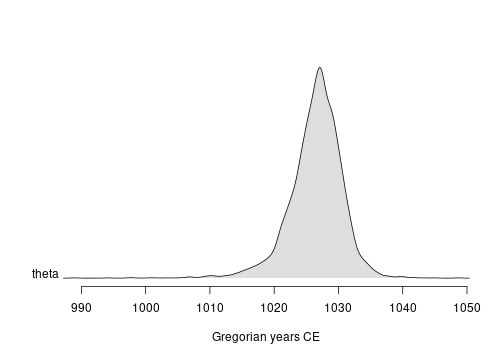
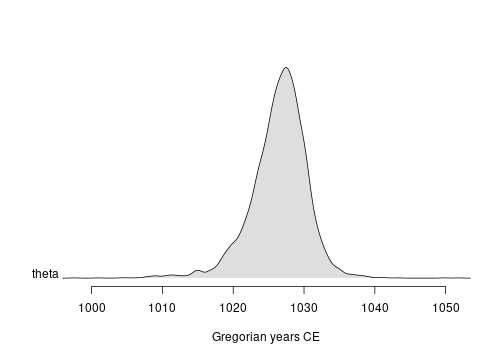
Deploying to gh-pages from @ ArchaeoStat/ArchaeoChron@ed5c441dbd1be5594cdccc8f652b42434cfdaec3 🚀

diff --git a/articles/ArchaeoChron.html b/articles/ArchaeoChron.html
@@ -73,7 +73,7 @@
                         <h4 data-toc-skip class="author">A. Philippe and
 M.-A. Vibet</h4>
             
-            <h4 data-toc-skip class="date">2023-06-27</h4>
+            <h4 data-toc-skip class="date">2023-12-04</h4>
       
       <small class="dont-index">Source: <a href="https://github.com/ArchaeoStat/ArchaeoChron/blob/HEAD/vignettes/ArchaeoChron.Rmd" class="external-link"><code>vignettes/ArchaeoChron.Rmd</code></a></small>
       <div class="hidden name"><code>ArchaeoChron.Rmd</code></div>
@@ -362,7 +362,7 @@ plot of chunk unnamed-chunk-3
 <code class="sourceCode R"><span></span>
 <span><span class="op">(</span><span class="va">M1</span> <span class="op">&lt;-</span> <span class="fu"><a href="https://ArchaeoStat.github.io/ArchaeoPhases/reference/summary.html" class="external-link">summary</a></span><span class="op">(</span><span class="va">MCMCEvent1</span><span class="op">[</span>, <span class="fl">1</span><span class="op">]</span>, level <span class="op">=</span> <span class="fl">0.95</span><span class="op">)</span><span class="op">)</span></span>
 <span><span class="co">#&gt;        mad mean sd  min   q1 median   q3  max start  end</span></span>
-<span><span class="co">#&gt; theta 1028 1028  3 1022 1027   1028 1029 1036  1025 1032</span></span></code></pre></div>
+<span><span class="co">#&gt; theta 1028 1028  3 1021 1027   1028 1029 1035  1025 1032</span></span></code></pre></div>
 <p>The date (mean posterior distribution) of the sunspot estimated using
 a simple Bayesian model that combines dates, is dates at 1028 years
 after Christ. This date is associated with a 95% confidence interval :
@@ -617,7 +617,7 @@ plot of chunk unnamed-chunk-5
 <code class="sourceCode R"><span></span>
 <span><span class="op">(</span><span class="va">M2</span> <span class="op">&lt;-</span> <span class="fu"><a href="https://ArchaeoStat.github.io/ArchaeoPhases/reference/summary.html" class="external-link">summary</a></span><span class="op">(</span><span class="va">MCMCEvent2</span><span class="op">[</span>, <span class="fl">1</span><span class="op">]</span>, level <span class="op">=</span> <span class="fl">0.95</span><span class="op">)</span><span class="op">)</span></span>
 <span><span class="co">#&gt;        mad mean sd  min   q1 median   q3  max start  end</span></span>
-<span><span class="co">#&gt; theta 1029 1028  3 1021 1027   1028 1029 1035  1025 1032</span></span></code></pre></div>
+<span><span class="co">#&gt; theta 1028 1028  3 1022 1027   1028 1029 1035  1025 1032</span></span></code></pre></div>
 <p>The date (mean posterior distribution) of the sunspot, estimated
 using a simple Bayesian model that combines dates and allows for
 outliers, is dates at 1028 years after Christ. This date is associated
@@ -869,11 +869,11 @@ plot of chunk unnamed-chunk-7
 <code class="sourceCode R"><span></span>
 <span><span class="op">(</span><span class="va">M3</span> <span class="op">&lt;-</span> <span class="fu"><a href="https://ArchaeoStat.github.io/ArchaeoPhases/reference/summary.html" class="external-link">summary</a></span><span class="op">(</span><span class="va">MCMCEvent3</span><span class="op">[</span>, <span class="fl">1</span><span class="op">]</span>, level <span class="op">=</span> <span class="fl">0.95</span><span class="op">)</span><span class="op">)</span></span>
 <span><span class="co">#&gt;        mad mean sd min   q1 median   q3  max start  end</span></span>
-<span><span class="co">#&gt; theta 1027 1026  5 989 1024   1027 1029 1049  1018 1035</span></span></code></pre></div>
+<span><span class="co">#&gt; theta 1027 1026  5 998 1024   1027 1029 1052  1018 1033</span></span></code></pre></div>
 <p>The date (mean posterior distribution) of the sunspot, estimated
 using a simple Bayesian model that combines dates and allows for random
 effects, is dates at 1026 years after Christ. This date is associated
-with a 95% confidence interval : [1018, 1035].</p>
+with a 95% confidence interval : [1018, 1033].</p>
 </div>
 <div class="section level3">
 <h3 id="event-model-bayesian-model-for-combining-gaussian-dates-with-individual-random-effects">Event Model : Bayesian model for combining Gaussian dates with
@@ -1130,12 +1130,12 @@ plot of chunk unnamed-chunk-9
 <span><span class="co">#&gt; Potential scale reduction factors:</span></span>
 <span><span class="co">#&gt; </span></span>
 <span><span class="co">#&gt;       Point est. Upper C.I.</span></span>
-<span><span class="co">#&gt; mu[1]          1       1.00</span></span>
-<span><span class="co">#&gt; mu[2]          1       1.00</span></span>
-<span><span class="co">#&gt; mu[3]          1       1.01</span></span>
-<span><span class="co">#&gt; mu[4]          1       1.01</span></span>
-<span><span class="co">#&gt; mu[5]          1       1.00</span></span>
-<span><span class="co">#&gt; theta          1       1.01</span></span>
+<span><span class="co">#&gt; mu[1]          1          1</span></span>
+<span><span class="co">#&gt; mu[2]          1          1</span></span>
+<span><span class="co">#&gt; mu[3]          1          1</span></span>
+<span><span class="co">#&gt; mu[4]          1          1</span></span>
+<span><span class="co">#&gt; mu[5]          1          1</span></span>
+<span><span class="co">#&gt; theta          1          1</span></span>
 <span><span class="co">#&gt; </span></span>
 <span><span class="co">#&gt; Multivariate psrf</span></span>
 <span><span class="co">#&gt; </span></span>
@@ -1161,11 +1161,11 @@ plot of chunk unnamed-chunk-10
 <code class="sourceCode R"><span></span>
 <span><span class="op">(</span><span class="va">M4</span> <span class="op">&lt;-</span> <span class="fu"><a href="https://ArchaeoStat.github.io/ArchaeoPhases/reference/summary.html" class="external-link">summary</a></span><span class="op">(</span><span class="va">MCMCEvent4</span><span class="op">[</span>, <span class="fl">6</span><span class="op">]</span>, level <span class="op">=</span> <span class="fl">0.95</span><span class="op">)</span><span class="op">)</span></span>
 <span><span class="co">#&gt;        mad mean sd  min   q1 median   q3  max start  end</span></span>
-<span><span class="co">#&gt; theta 1027 1026  5 1009 1024   1027 1029 1039  1017 1033</span></span></code></pre></div>
+<span><span class="co">#&gt; theta 1027 1026  5 1007 1024   1027 1029 1048  1018 1034</span></span></code></pre></div>
 <p>The date (mean posterior distribution) of the sunspot, estimated
 using a simple Bayesian model that combines dates and allows for
 individual random effects, is dates at 1026 years after Christ. This
-date is associated with a 95% confidence interval : [1017, 1033].</p>
+date is associated with a 95% confidence interval : [1018, 1034].</p>
 </div>
 </div>
 </div>
